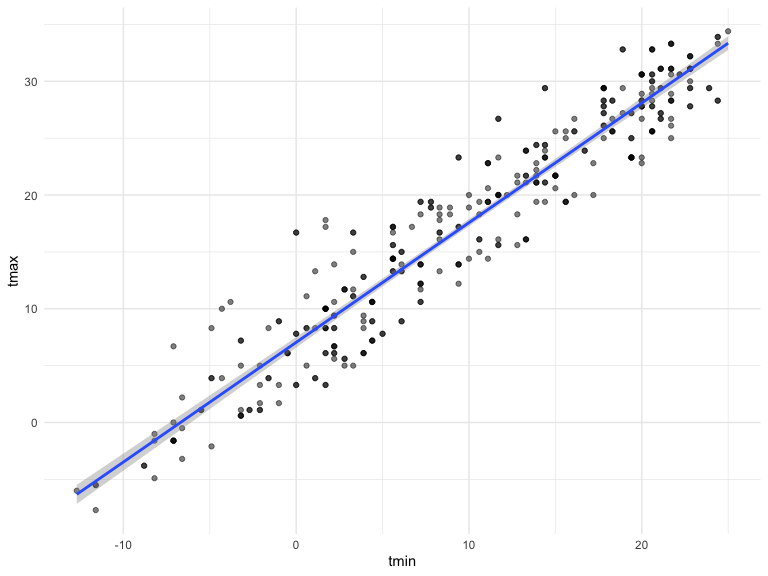
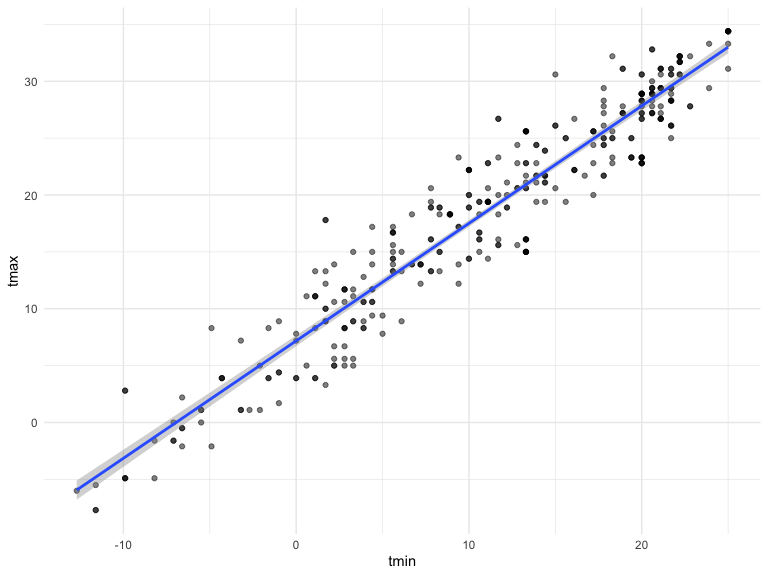
did the same for log(b0*b1)

diff --git a/p8105_hw6_mll2209.md b/p8105_hw6_mll2209.md
@@ -247,25 +247,6 @@ boot_straps =
     strap_sample = rerun(50, boot_sample(weather_df))
   )
 
-boot_straps
-```
-
-    ## # A tibble: 50 x 2
-    ##    strap_number strap_sample      
-    ##           <int> <list>            
-    ##  1            1 <tibble [365 × 6]>
-    ##  2            2 <tibble [365 × 6]>
-    ##  3            3 <tibble [365 × 6]>
-    ##  4            4 <tibble [365 × 6]>
-    ##  5            5 <tibble [365 × 6]>
-    ##  6            6 <tibble [365 × 6]>
-    ##  7            7 <tibble [365 × 6]>
-    ##  8            8 <tibble [365 × 6]>
-    ##  9            9 <tibble [365 × 6]>
-    ## 10           10 <tibble [365 × 6]>
-    ## # … with 40 more rows
-
-``` r
 boot_straps %>% 
   filter(strap_number %in% 1:2) %>% 
   mutate(strap_sample = map(strap_sample, ~arrange(.x, tmin))) %>% 
@@ -279,13 +260,13 @@ boot_straps %>%
     ##  1 CentralPark_NY USW00094728 2017-12-31     0  -6   -12.7
     ##  2 CentralPark_NY USW00094728 2017-12-31     0  -6   -12.7
     ##  3 CentralPark_NY USW00094728 2017-12-29     0  -5.5 -11.6
-    ##  4 CentralPark_NY USW00094728 2017-03-11     0  -1.6  -8.2
-    ##  5 CentralPark_NY USW00094728 2017-03-04     0  -1    -8.2
-    ##  6 CentralPark_NY USW00094728 2017-02-10     0   0    -7.1
-    ##  7 CentralPark_NY USW00094728 2017-02-09   295   6.7  -7.1
-    ##  8 CentralPark_NY USW00094728 2017-02-10     0   0    -7.1
-    ##  9 CentralPark_NY USW00094728 2017-03-12     0  -1.6  -7.1
-    ## 10 CentralPark_NY USW00094728 2017-02-09   295   6.7  -7.1
+    ##  4 CentralPark_NY USW00094728 2017-12-29     0  -5.5 -11.6
+    ##  5 CentralPark_NY USW00094728 2017-03-05     0   2.8  -9.9
+    ##  6 CentralPark_NY USW00094728 2017-03-05     0   2.8  -9.9
+    ##  7 CentralPark_NY USW00094728 2017-03-11     0  -1.6  -8.2
+    ##  8 CentralPark_NY USW00094728 2017-03-11     0  -1.6  -8.2
+    ##  9 CentralPark_NY USW00094728 2017-03-11     0  -1.6  -8.2
+    ## 10 CentralPark_NY USW00094728 2017-12-30    13  -4.9  -8.2
     ## # … with 355 more rows
     ## 
     ## [[2]]
@@ -293,15 +274,15 @@ boot_straps %>%
     ##    name           id          date        prcp  tmax  tmin
     ##    <chr>          <chr>       <date>     <dbl> <dbl> <dbl>
     ##  1 CentralPark_NY USW00094728 2017-12-31     0  -6   -12.7
-    ##  2 CentralPark_NY USW00094728 2017-12-29     0  -5.5 -11.6
-    ##  3 CentralPark_NY USW00094728 2017-01-09     0  -4.9  -9.9
-    ##  4 CentralPark_NY USW00094728 2017-12-30    13  -4.9  -8.2
-    ##  5 CentralPark_NY USW00094728 2017-03-04     0  -1    -8.2
-    ##  6 CentralPark_NY USW00094728 2017-03-11     0  -1.6  -8.2
-    ##  7 CentralPark_NY USW00094728 2017-12-30    13  -4.9  -8.2
-    ##  8 CentralPark_NY USW00094728 2017-03-04     0  -1    -8.2
-    ##  9 CentralPark_NY USW00094728 2017-02-10     0   0    -7.1
-    ## 10 CentralPark_NY USW00094728 2017-02-09   295   6.7  -7.1
+    ##  2 CentralPark_NY USW00094728 2017-12-31     0  -6   -12.7
+    ##  3 CentralPark_NY USW00094728 2017-12-28     0  -7.7 -11.6
+    ##  4 CentralPark_NY USW00094728 2017-12-28     0  -7.7 -11.6
+    ##  5 CentralPark_NY USW00094728 2017-01-09     0  -4.9  -9.9
+    ##  6 CentralPark_NY USW00094728 2017-01-09     0  -4.9  -9.9
+    ##  7 CentralPark_NY USW00094728 2017-03-05     0   2.8  -9.9
+    ##  8 CentralPark_NY USW00094728 2017-01-08     0  -3.8  -8.8
+    ##  9 CentralPark_NY USW00094728 2017-12-27     0  -4.3  -8.2
+    ## 10 CentralPark_NY USW00094728 2017-03-11     0  -1.6  -8.2
     ## # … with 355 more rows
 
 ``` r
@@ -317,6 +298,7 @@ boot_straps %>%
     ## `geom_smooth()` using formula 'y ~ x'
 
 <img src="p8105_hw6_mll2209_files/figure-gfm/unnamed-chunk-13-1.png" width="90%" />
+for r squared
 
 ``` r
 bootstrap_results = 
@@ -328,6 +310,14 @@ bootstrap_results =
   unnest(results) 
 
 bootstrap_results %>%
+  ggplot(aes(x = r.squared)) +
+  geom_density()
+```
+
+<img src="p8105_hw6_mll2209_files/figure-gfm/unnamed-chunk-14-1.png" width="90%" />
+
+``` r
+bootstrap_results %>%
   summarize(
     ci_lower = quantile(r.squared, 0.025),
     ci_upper = quantile(r.squared, 0.975))
@@ -336,4 +326,44 @@ bootstrap_results %>%
     ## # A tibble: 1 x 2
     ##   ci_lower ci_upper
     ##      <dbl>    <dbl>
-    ## 1    0.894    0.927
+    ## 1    0.896    0.926
+
+for log(beta0 \* beta1)
+
+``` r
+bootstrap_results = 
+  boot_straps %>% 
+  mutate(
+    models = map(strap_sample, ~lm(tmax ~ tmin, data = .x) ),
+    results = map(models, broom::tidy)) %>% 
+  select(-strap_sample, -models) %>% 
+  unnest(results) %>%
+  select(strap_number, term, estimate) %>%
+  pivot_wider(
+    names_from = "term",
+    values_from = "estimate"
+  )
+
+bootstrap_results =
+tibble(
+bootstrap_results,
+log = log(pull(bootstrap_results, '(Intercept)') * pull(bootstrap_results, tmin)))
+
+bootstrap_results %>%
+  ggplot(aes(x = log)) +
+  geom_density()
+```
+
+<img src="p8105_hw6_mll2209_files/figure-gfm/unnamed-chunk-15-1.png" width="90%" />
+
+``` r
+bootstrap_results %>%
+  summarize(
+    ci_lower = quantile(log, 0.025),
+    ci_upper = quantile(log, 0.975))
+```
+
+    ## # A tibble: 1 x 2
+    ##   ci_lower ci_upper
+    ##      <dbl>    <dbl>
+    ## 1     1.99     2.06
